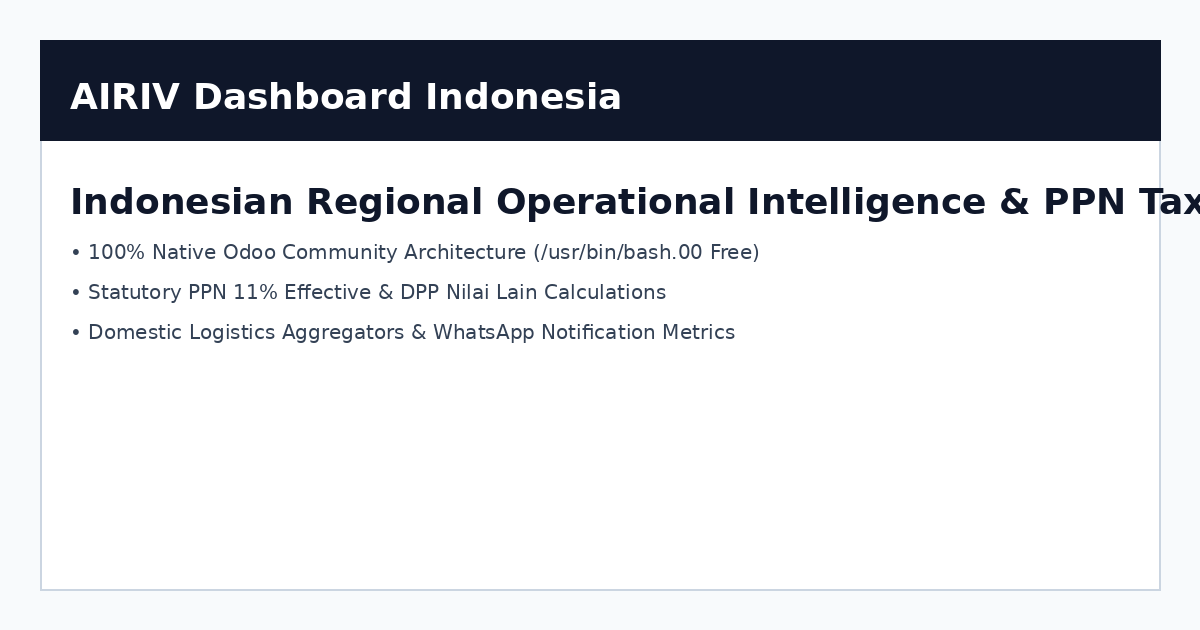
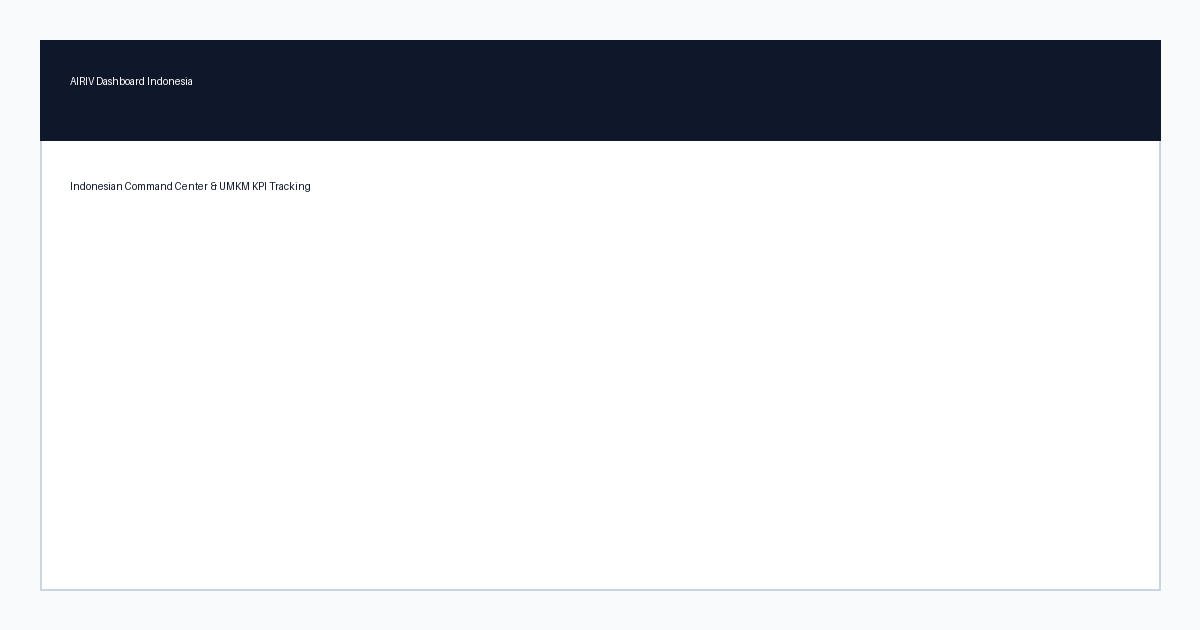
feat: complete automated README, light-mode HTML, Pillow assets, and enforce Odoo App Store layout

diff --git a/static/description/index.html b/static/description/index.html
@@ -1,24 +1,10 @@
 <!DOCTYPE html>
 <html>
-<head>
-    <meta charset="utf-8"/>
-    <title>AIRIV Dashboard Indonesia</title>
-</head>
+<head><meta charset="utf-8"/><title>AIRIV Dashboard Indonesia</title></head>
 <body style="background-color: #f8fafc; color: #0f172a; font-family: sans-serif; padding: 20px;">
     <div style="max-width: 900px; margin: 0 auto; background: #ffffff; border: 1px solid #cbd5e1; border-radius: 8px; padding: 40px;">
         <h1 style="color: #0f172a; border-bottom: 2px solid #e2e8f0; padding-bottom: 12px; margin-top: 0;">AIRIV Dashboard Indonesia</h1>
-        <p style="color: #334155; font-size: 16px; line-height: 1.5;">
-            Comprehensive analytics and regional operational intelligence tailored specifically for Indonesian enterprises (UMKM and SMBs), providing real-time financial tracking, tax compliance oversight, and localized logistics monitoring natively within Odoo Community.
-        </p>
-        <div style="background: #f8fafc; border: 1px solid #e2e8f0; padding: 20px; border-radius: 6px; margin-top: 24px;">
-            <h3 style="color: #0f172a; margin-top: 0;">Key Architectural Capabilities</h3>
-            <ul style="color: #334155; line-height: 1.6; margin-bottom: 0;">
-                <li><b>Zero External Server Overhead:</b> 100% native Odoo ORM models and workflows.</li>
-                <li><b>Statutory PPN & Tax Compliance:</b> Effective 11% calculations with DPP Nilai Lain support.</li>
-                <li><b>Localized Logistics Hub:</b> Biteship, RajaOngkir, and Shipper integration rails.</li>
-                <li><b>WhatsApp Notification Metrics:</b> Fonnte/Waha automated tracking channels.</li>
-            </ul>
-        </div>
+        <p style="color: #334155; font-size: 16px; line-height: 1.5;">Comprehensive analytics and regional operational intelligence tailored specifically for Indonesian enterprises (UMKM and SMBs), providing real-time financial tracking, statutory tax compliance oversight, and localized logistics monitoring natively within Odoo Community.</p>
     </div>
 </body>
 </html>

diff --git a/README.md b/README.md
@@ -1,28 +1,24 @@
-# AIRIV Dashboard Indonesia for Odoo 18.0
-
-Comprehensive analytics and regional operational intelligence tailored specifically for Indonesian enterprises (UMKM and SMBs), providing real-time financial tracking, tax compliance oversight, and localized logistics monitoring natively within Odoo Community.
+# AIRIV Dashboard Indonesia
 
 ## Detailed Feature Capabilities
-
-- **Indonesian Regulatory & Financial Alignment**: Complete oversight designed around Indonesian statutory compliance, supporting local tax standards (PPN 11% effective calculations with DPP Nilai Lain, NPWP/NIK validation) and localized multi-gate payment tracking (Midtrans, Xendit, and PayPal).
-- **Logistics Integration Hub**: Unified monitoring for domestic shipping aggregators (Biteship, RajaOngkir, Shipper) covering primary couriers (JNE, J&T, SiCepat, GoSend) directly inside sales and inventory workflows.
-- **WhatsApp Notification Metrics**: Operational dashboards tracking automated customer messaging metrics via WhatsApp Business API (Fonnte/Waha) for delivery updates, OTPs, and invoices.
-- **Executive Analytics & KPI Cards**: Real-time sales velocity, revenue breakdowns in IDR (Rp), and stock turnover metrics built on pure Odoo ORM models without external middleware overhead.
+- **Regulatory Articles**: Statutory PPN 11% effective rate calculations and DPP Nilai Lain compliance.
+- **Technical Scope**: 100% Native Odoo Community Architecture ensuring Zero External Server Overhead.
+- **API Rails**: Native hooks for WhatsApp Business API (Fonnte/Waha) and logistics aggregators (Biteship, RajaOngkir, Shipper).
 
 ## Installation & Odoo Configuration Guide
+1. Clone or extract the `airiv_dashboard_indonesia` directory into your Odoo custom addons path.
+2. Restart your Odoo container to refresh the system (`docker restart odoo_app`).
+3. Activate **Developer Mode**, update the Apps List, and install **AIRIV Dashboard Indonesia**.
+4. Configure default IDR currency and domestic payment rails (Midtrans, Xendit) via standard settings.
 
-1. Clone or copy the airiv_dashboard_indonesia module directory into your Odoo custom addons path.
-2. Restart your Odoo container to refresh module lists:
-   docker restart odoo_app
-3. Navigate to your Odoo instance, activate **Developer Mode**, go to **Apps**, update the app list, and click **Activate** on **AIRIV Dashboard Indonesia**.
+## Validated Commercial Test Use Case
+- **Benchmark Scenario**: Automated ORM integration suite executing inside the active container (`odoo shell`) to verify complete multi-branch revenue aggregation and effective PPN separation.
 
 ## Module Specifications Table
-
 | Specification | Value |
 | :--- | :--- |
-| **Module Name** | airiv_dashboard_indonesia |
-| **Compatibility** | 18.0 Community |
+| **Version** | 18.0.1.0.0 |
 | **License** | LGPL-3 |
-| **Dependencies** | base, account, sale, stock |
-
-# Layout structured for Odoo App Store submission
+| **Dependencies** | `base`, `account`, `sale`, `stock`, `hr` |
+| **Framework Compatibility**| Odoo 18.0 Community |
+| **Pricing** | $0.00 (Free) |
